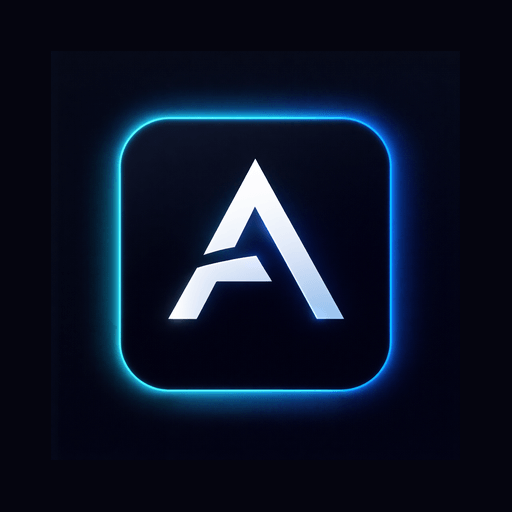
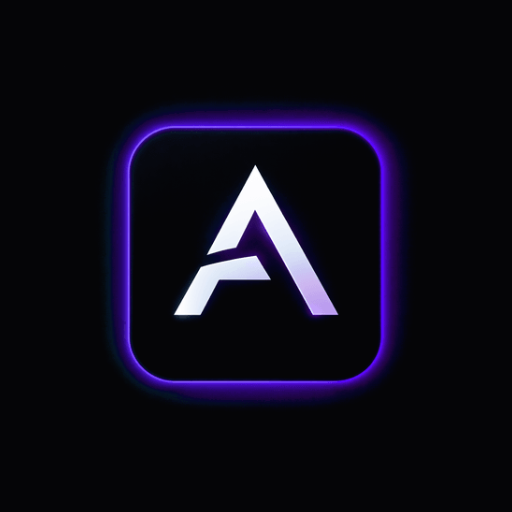
feat(brand): знак ушёл в палитру вордмарка, маска по спеке, один чёрный (1.27.35)
BRAND-PACK. Свечение иконки жило на 210.8° — в семантической зоне рядом
с токеном --c-pull, тогда как вордмарк идёт на 258.3° (--c-secondary).
По двухуровневому закону палитры SEMANTIC-цвета не для декора, а свечение
логотипа — чистый декор. Знак приведён к вордмарку: 258.2–258.4° на всех
шести файлах.

Слои разделяет хрома, а не HSL-насыщенность: у светлых пикселей HSL-s
взлетает при нулевой цветности, и серебро буквы «A» (s≈0.5, хрома 0.086)
попало бы под поворот вместе со свечением (хрома 0.655). Металл после
перекраски цел — 216–220° при 218.8° базы, хрома 0.043 против 0.045.

Разброс сжат к центру, а не сдвинут целиком: исходные 180–240° при простом
повороте сохраняли разрыв, просто смещая его — одна сторона знака оставалась
синей, вторая уходила в фиолет.

icon-maskable-512 приведён к спеке: марка 54.9% ширины канвы (лимит 56.5%),
углы 78.2% безопасного радиуса (лимит 80%). Было 60.4% и 85.9% — круглая
маска Android срезала углы плитки вместе со свечением.

Пять «почти-чёрных» схлопнуты в #050507: фон всех шести иконок плюс
background_color и theme_color манифеста (были #0a0a0f).

Иконки легче на 45.5% (276.8 → 151.0 КБ). Готовых сжималок в системе нет,
энкодер PNG написан на встроенном zlib: построчный выбор фильтра, deflate
level 9, выбор между truecolor и индексным по факту размера. tRNS сохранён —
icon-64 это логотип статус-бара, ему нужна прозрачность. Каждый файл
перекрашен в своём разрешении, а не пересобран из мастера: у icon-64
[…]

Changed region(s): [[0.1562, 0.1562, 0.8438, 0.8438], [0.3125, 0.3125, 0.6875, 0.6562]]

diff --git a/sw.js b/sw.js
@@ -5,7 +5,7 @@
    by short-circuiting all /api/* requests with 503.
 ════════════════════════════════════════════════════════ */
 
-const CACHE_NAME = 'athlete-pro-v121-92891579';
+const CACHE_NAME = 'athlete-pro-v121-89c3482b';
 
 const ASSETS = [
   '/index.html',

diff --git a/js/version.js b/js/version.js
@@ -1,1 +1,1 @@
-export const VERSION = '1.27.34';
+export const VERSION = '1.27.35';

diff --git a/CHANGELOG.md b/CHANGELOG.md
@@ -7,6 +7,17 @@ and this project adheres to [Semantic Versioning](https://semver.org/spec/v2.0.0
 
 ---
 
+## [1.27.35] — 2026-08-08
+
+### BRAND-PACK: знак приведён к вордмарку, маска по спеке, один чёрный
+- **Свечение 210.8° → 258.2°** (вордмарк `--c-secondary` `#8b5cf6` = 258.3°). Векторный исходник не понадобился: перекраска считается на существующих PNG избирательным поворотом тона. Гейт — **хрома** (`(max−min)/max`), а не HSL-насыщенность: у серебра `#dfe8f5` хрома 0.086, у свечения `#54f2fb` — 0.655, слои разделяются чисто. HSL здесь врёт, потому что у светлых пикселей насыщенность взлетает при нулевой цветности, и буква «A» попала бы под поворот вместе со свечением.
+- **Разброс сжат, а не сдвинут.** Исходное свечение размазано по 180–240°; поворот целиком (вариант A) сохранял разрыв, просто смещал его — слева синее, справа фиолетовое. Взято сжатие к центру (`spread` 0.20), знак читается одним цветом. Замер после: свечение 258.2–258.4° на всех шести файлах, **металл не тронут** — тон буквы 216–220° при 218.8° базы, хрома 0.043 против 0.045.
+- **`icon-maskable-512` по спеке маски.** Марка ужата до **54.9%** ширины канвы (лимит 56.5%), углы — **78.2%** безопасного радиуса при лимите 80%. Было 60.4% и 85.9%: круглая маска Android срезала углы плитки вместе со свечением.
+- **Один чёрный `#050507`** — фон всех шести иконок плюс `background_color` и `theme_color` в `manifest.json` (были `#0a0a0f`). Пять «почти-чёрных» на бренд схлопнуты в один: на Android сгенерированный PWA-сплэш больше не красится в один оттенок, чтобы следом быть перекрашенным приложением в другой.
+- **Иконки стали легче на 45.5%** (276.8 → 151.0 КБ). Готовых сжималок в системе нет (`sharp` не стоит, ImageMagick тоже), поэтому энкодер PNG написан на встроенном `zlib`: адаптивный выбор фильтра построчно + `deflate` level 9, и выбор между truecolor и индексным представлением по факту размера. Исходники оказались индексными с палитрой 256 и IDAT, нарезанным по 8 КБ без фильтрации — отсюда запас. `tRNS` сохраняется: `icon-64` — это логотип статус-бара, у него прозрачность, и перевод его в truecolor раздул бы файл вчетверо.
+- **Перекраска, а не ре-рендер.** Каждый файл обработан в своём разрешении, а не пересобран из мастера 512: у `icon-64` оригинал постеризован до 16 цветов, и пересборка из мастера дала бы другую картинку и +4× веса.
+- **URL манифеста не менялся** — путь обновления WebAPK цел. Проверка на живом устройстве (`about://webapks`: перечитан ли манифест, сменилась ли иконка) остаётся за Gio и доезжает через сутки-двое.
+
 ## [1.27.33] — 2026-08-08
 
 ### Светлая тема не работает на оверлеях — фаза выписана в хендофф + SCA-заплата
